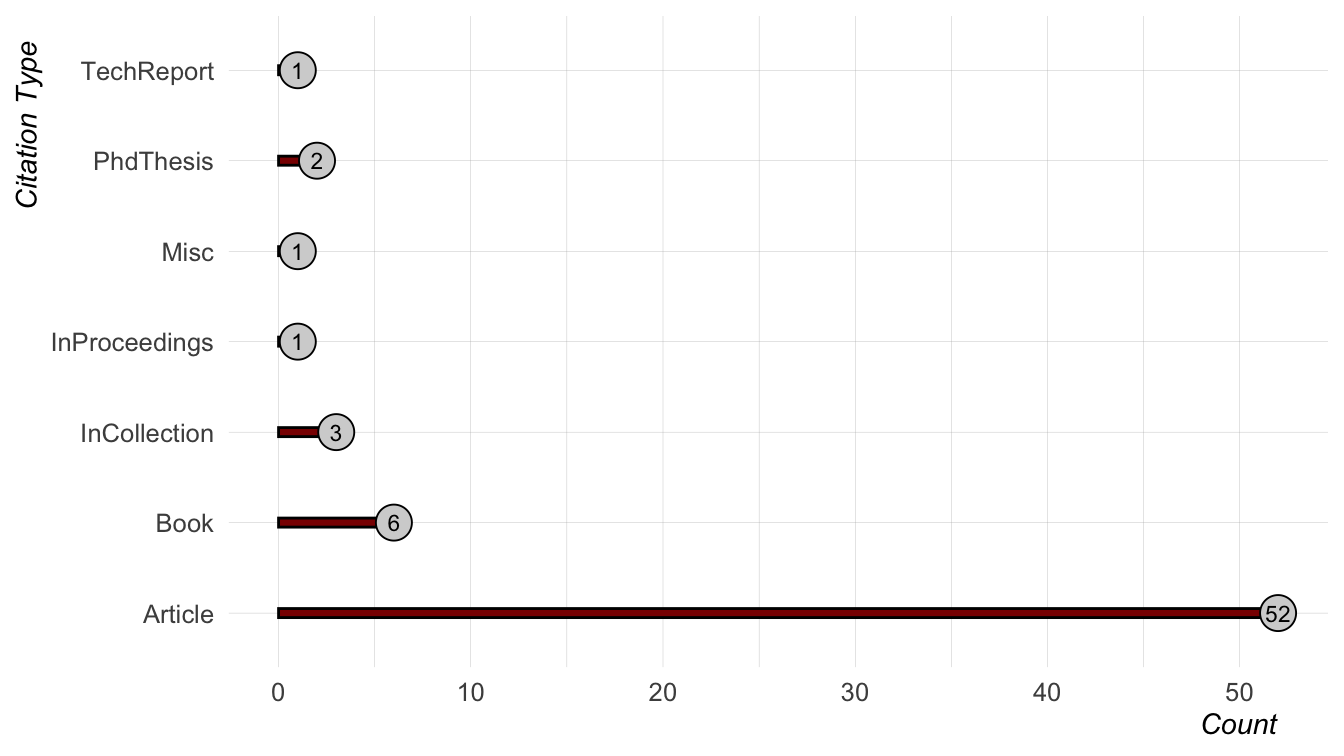
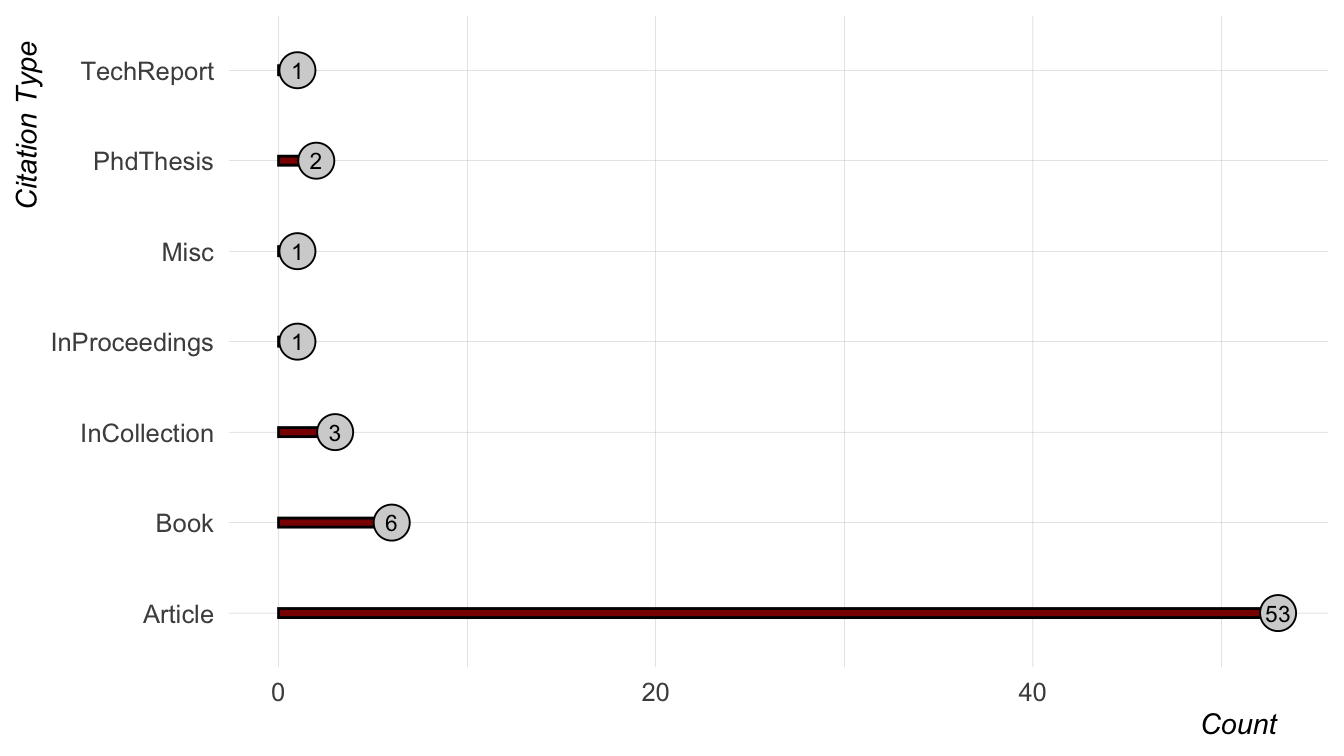
final list for first paper

diff --git a/README.md b/README.md
@@ -1,6 +1,6 @@
 # Sound communities references
 Joseph V. Casillas
-2024-07-04
+2024-07-06
 
 ## Citation Types
 
@@ -404,6 +404,15 @@ Chan, and Mark Onslow. 2008. “Determining Language Dominance in
 English-Mandarin Bilinguals: Development of a Self-Report Classification
 Tool for Clinical Use.” *Applied Psycholinguistics* 29 (3): 389–412.
 <https://doi.org/10.1017/S0142716408080181>.
+
+</div>
+
+<div id="ref-lindemann2013reliably" class="csl-entry">
+
+Lindemann, Stephanie, and Nicholas C. Subtirelu. 2013. “Reliably Biased:
+The Role of Listener Expectation in the Perception of Second Language
+Speech.” *Language Learning* 63 (3): 567–94.
+<https://doi.org/10.1111/lang.12014>.
 
 </div>
 
